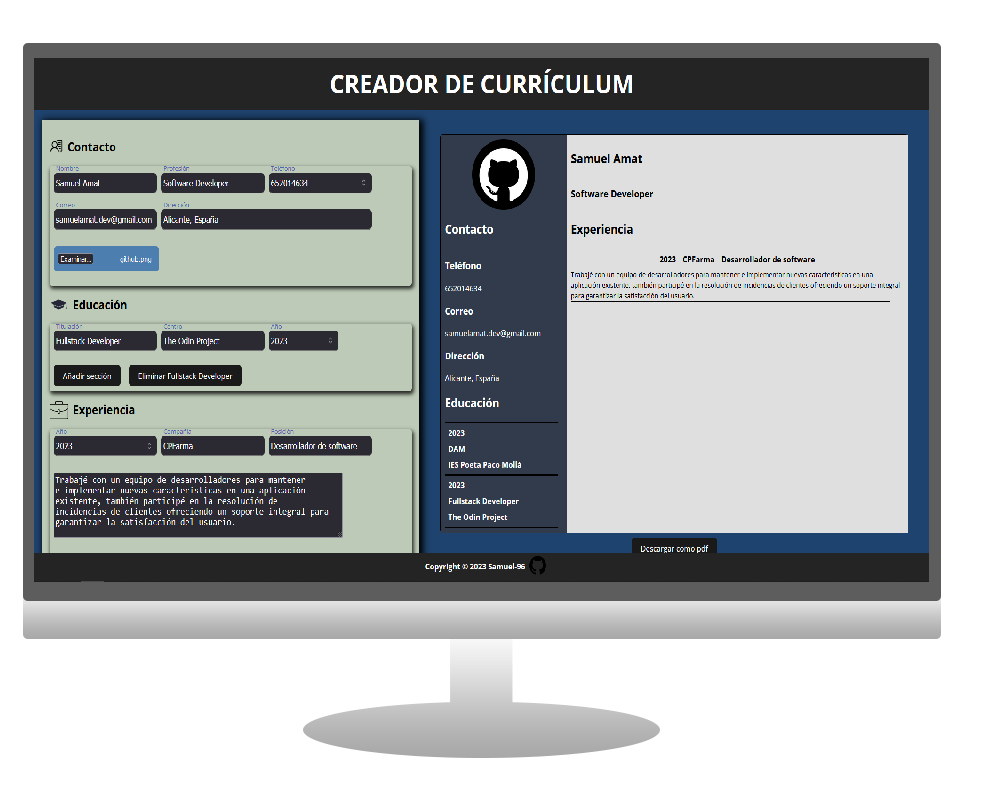
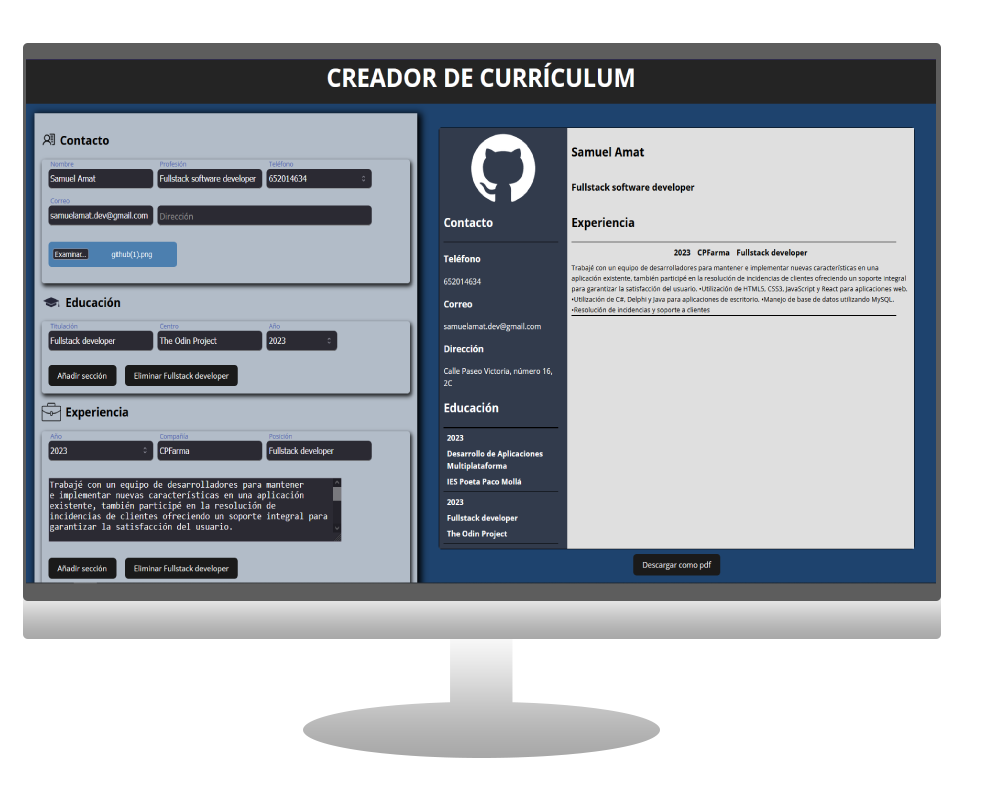
añadido proyecto cvmaker

Changed region(s): [[0.0, 0.0624, 0.9766, 0.7491]]

diff --git a/src/proyectsInfo.js b/src/proyectsInfo.js
@@ -12,11 +12,13 @@ import TwitterPhone from "./assets/screentwitter-phone.png"
 import GameCore1 from "./assets/gamecore1.png"
 import GameCore2 from "./assets/gamecore2.png"
 
+import CvBuilder from "./assets/cv-builder.png"
+
 const data = [
     {
         nombre: "BookHub",
         descripcionEs: "Página web desarrollada con React que implementa la API de Google Books y un sistema de compra. Utilización de hooks y librerías de React como router, context etc.",
-        tecnologias: "React, JSX, React router, Tailwind CSS.",
+        tecnologias: "React, JSX, React router, Tailwind CSS, Vite.",
         imgComp: BookhubComp.src,
         imgPhone: BookhubPhone.src,
         liveDemoUrl: "https://bookstore-top.netlify.app/",
@@ -43,7 +45,7 @@ const data = [
 
     {
         nombre: "Twitter clone",
-        descripcionEs: "Página web desarrollada para mejorar mis habilidades con Tailwind CSS y Astro. Hay tanto versión de escritorio como móvil.",
+        descripcionEs: "Página web desarrollada para demostrar mis habilidades con Tailwind CSS y Astro, simula el aspecto visual de la pantalla de inicio de Twitter. Hay tanto versión de escritorio como móvil.",
         tecnologias: "Astro, Tailwind CSS, JavaScript.",
         imgComp: TwitterComp.src, 
         imgPhone: TwitterPhone.src, 
@@ -59,6 +61,15 @@ const data = [
         imgPhone: GameCore2.src, 
         liveDemoUrl: "https://www.youtube.com/watch?v=CwD2z7LL0Qw", 
         repoUrl: "https://github.com/Samuel-96/GameCore"
+    },
+
+    {
+        nombre: "CV Maker",
+        descripcionEs: "Aplicación web que permite a los usuarios construir currículums de manera fácil e intuitiva",
+        tecnologias: "React, JSX, Vite.",
+        imgComp: CvBuilder.src,
+        liveDemoUrl: "https://creador-curriculum.netlify.app/", 
+        repoUrl: "https://github.com/Samuel-96/cv-generator"
     },
 ]
 
